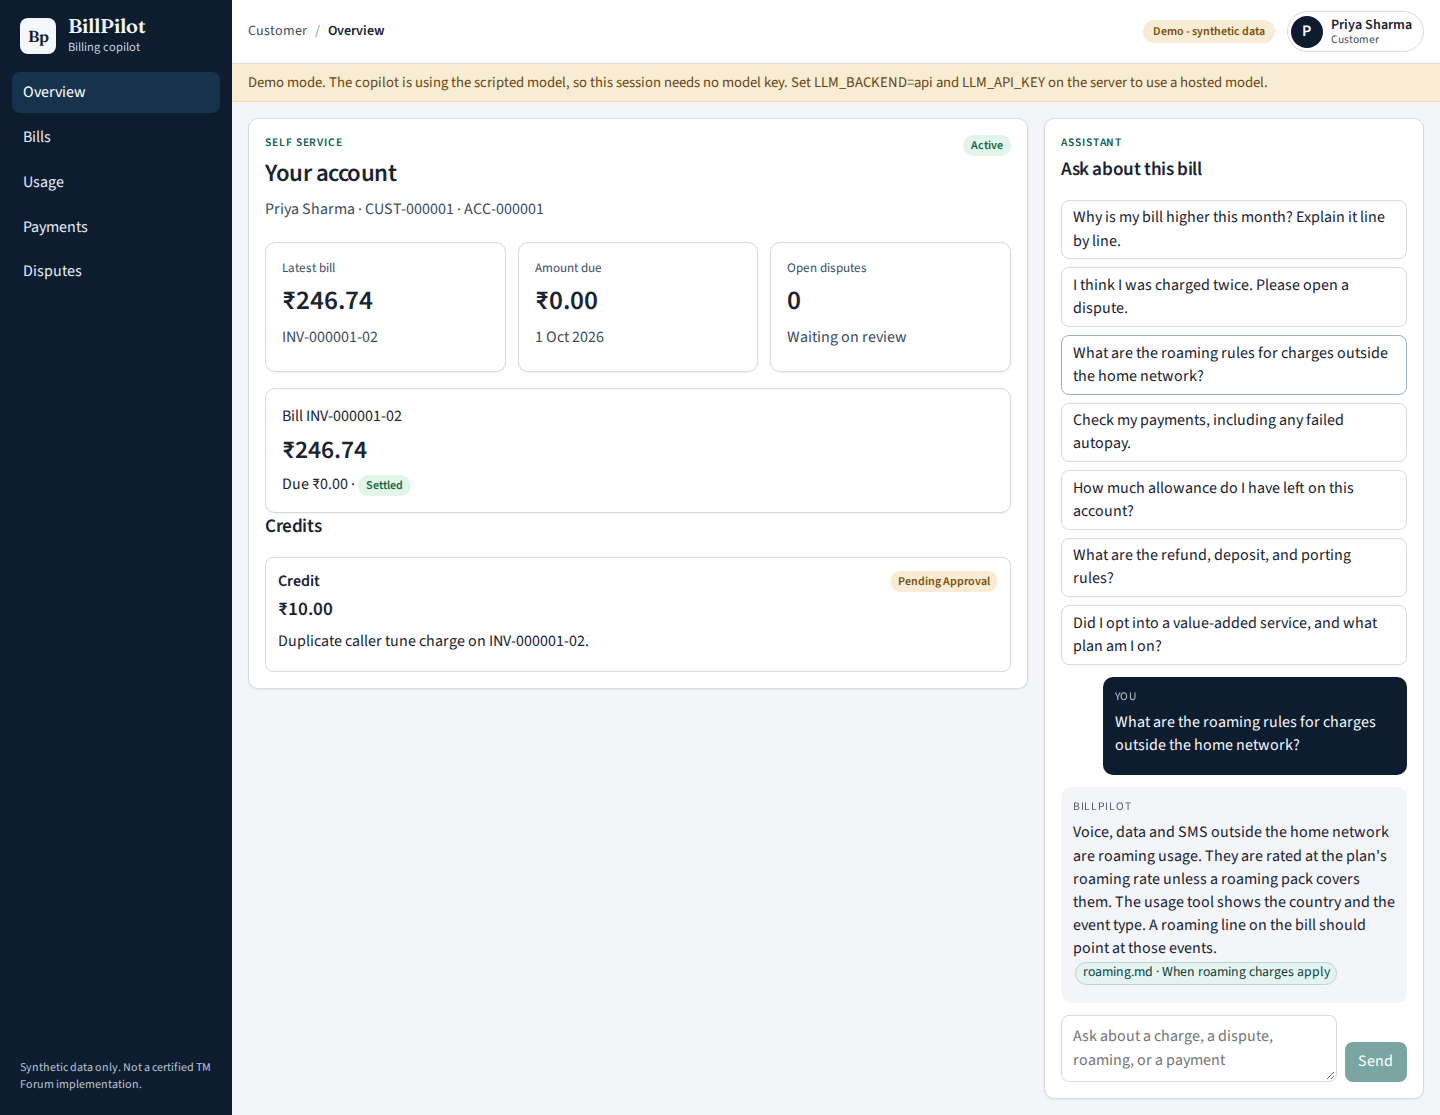
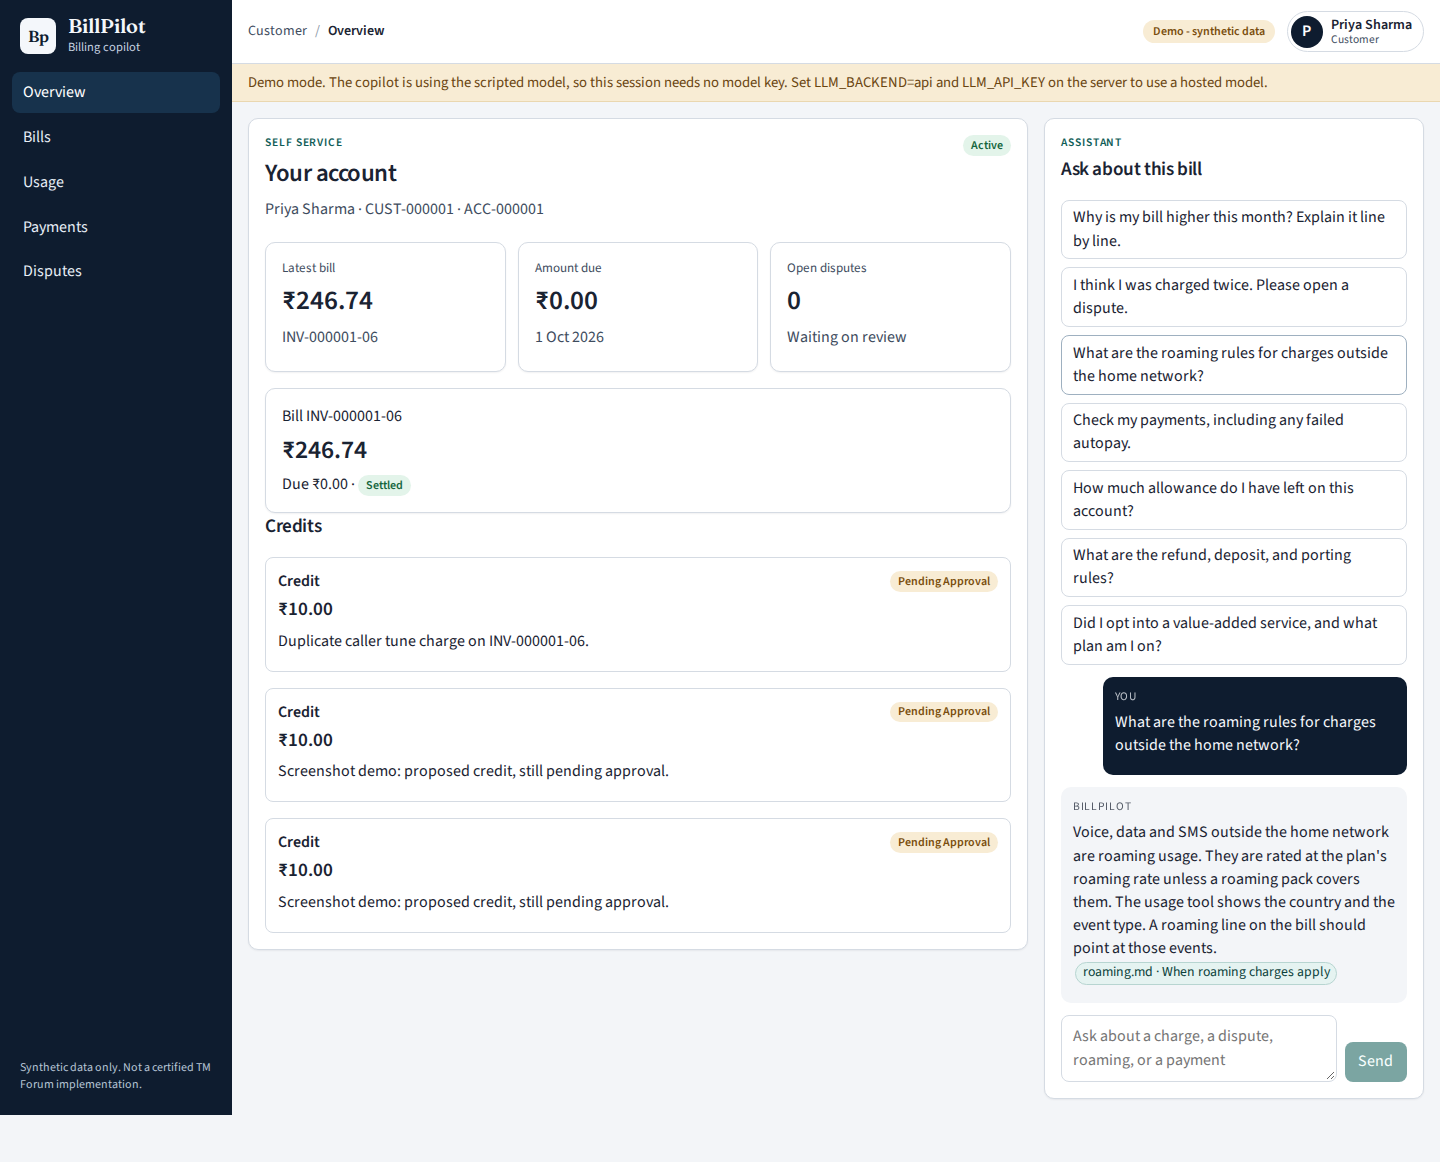
Quote the full-seed detector measurement and refresh the signed-in screenshots.
The 500-customer run is precision 0.9583 and recall 1.0, with four false positives left in the SQL. Ops and CSR shots are from the session shell.

diff --git a/tests/test_events.py b/tests/test_events.py
@@ -179,7 +179,10 @@ def test_session_customer_and_csr_are_forbidden_on_ops_routes(seeded):
                 assert response.status_code == 403, (username, path, response.text)
                 assert "cannot perform" in response.json()["message"]
             client.post("/auth/logout", headers=csrf)
-        meera = client.post("/auth/login", json={"username": "meera.kapoor", "password": _demo_password("meera.kapoor")})
+        meera = client.post(
+            "/auth/login",
+            json={"username": "meera.kapoor", "password": _demo_password("meera.kapoor")},
+        )
         assert meera.status_code == 200, meera.text
         assert client.get("/ops/failures").status_code == 200
 

diff --git a/README.md b/README.md
@@ -359,7 +359,38 @@ The consumer opens incidents for failed bill runs, failed payments and autopay, 
 
 Reports (billing, collections and treatment, disputes and credits, payments, agent usage and cost) are SQL aggregates for the latest invoice day and that month. `billpilot reports generate` or **Generate reports** on `/ops` writes them. CSV is `GET /ops/reports/{id}/csv` and a download button that builds the file from the JSON.
 
-Fraud and revenue checks are SQL. They do not read the answer key. A finding matches a planted anomaly when the account and the anomaly type are the same. Controls are not labels. Precision is matched findings divided by all findings. Recall is matched labels divided by labelled anomalies. On the small synthetic seed (48 customers, seed 42, one of each planted anomaly, plus the healthy controls) the measured precision is **1.0** and the measured recall is **1.0** (23 findings, 23 labelled anomalies, no false positives). Those numbers come from `tests/test_detectors.py` / `billpilot assurance score` against that seed's `ground_truth`. They are a measurement of the SQL checks, not a language-model score. `usage_without_charge` is a real check and finds no row on this generator, so it is not in the labelled set. Ops can open a case or, when the evidence has a positive pre-tax amount, propose a credit. The credit stays `pending_approval`. The ops actor that proposed it cannot approve it.
+Fraud and revenue checks are SQL. They do not read the answer key. A finding matches a planted anomaly when the account and the anomaly type are the same. Controls are not labels. Precision is matched findings divided by all findings. Recall is matched labels divided by labelled anomalies. The detectors and the planted anomalies come from the same synthetic generator, so these numbers show that the detectors match their spec. They are not a measure of real-world accuracy, and they are not a language-model score.
+
+CI runs the small seed only (48 customers, seed 42, one of each planted anomaly, plus the healthy controls): precision **1.0**, recall **1.0**, 23 findings, 23 labelled anomalies. That check is `tests/test_detectors.py`. The default seed is the one to quote: 500 customers, 6 months, seed 42, 92 planted anomalies. `billpilot assurance score --ground-truth data/ground_truth.json` on that database measured precision **0.9583** (92 of 96 findings matched) and recall **1.0** (92 of 92 labelled anomalies). Four findings are false positives. `barred_after_paying` and `payment_not_ending_treatment` each flagged `CUST-000105` and `CUST-000109`, and neither account is a planted example of those anomalies. Nothing planted was missed. The SQL was not changed to drop those four rows. `usage_without_charge` is a real check and finds no row on this generator, so it has no labelled rows and no findings. Scoring the loaded 500-customer database is a separate command. CI does not load that seed.
+
+| Detector | Anomaly type | Labelled | Findings | True positives | False positives | Missed | Precision | Recall |
+| --- | --- | --- | --- | --- | --- | --- | --- | --- |
+| `duplicate_charge` | `double_charge` | 6 | 6 | 6 | 0 | 0 | 1.0 | 1.0 |
+| `roaming_spike` | `roaming_spike` | 4 | 4 | 4 | 0 | 0 | 1.0 | 1.0 |
+| `sim_swap_premium` | `sim_swap` | 3 | 3 | 3 | 0 | 0 | 1.0 | 1.0 |
+| `unbilled_usage` | `unbilled_usage` | 6 | 6 | 6 | 0 | 0 | 1.0 | 1.0 |
+| `usage_without_charge` | `usage_without_charge` | 0 | 0 | 0 | 0 | 0 | — | — |
+| `duplicate_usage` | `duplicate_usage` | 6 | 6 | 6 | 0 | 0 | 1.0 | 1.0 |
+| `tariff_mismatch` | `wrong_rate` | 6 | 6 | 6 | 0 | 0 | 1.0 | 1.0 |
+| `missed_discount` | `missed_discount` | 6 | 6 | 6 | 0 | 0 | 1.0 | 1.0 |
+| `charge_after_cancel` | `charge_after_cancellation` | 4 | 4 | 4 | 0 | 0 | 1.0 | 1.0 |
+| `vas_not_opted_in` | `vas_not_opted_in` | 4 | 4 | 4 | 0 | 0 | 1.0 | 1.0 |
+| `payment_not_recorded` | `payment_not_recorded` | 4 | 4 | 4 | 0 | 0 | 1.0 | 1.0 |
+| `payment_not_posted` | `payment_not_posted` | 4 | 4 | 4 | 0 | 0 | 1.0 | 1.0 |
+| `barred_after_paying` | `barred_after_paying` | 3 | 5 | 3 | 2 | 0 | 0.6 | 1.0 |
+| `treated_during_dispute` | `treated_during_open_dispute` | 3 | 3 | 3 | 0 | 0 | 1.0 | 1.0 |
+| `payment_not_ending_treatment` | `payment_not_ending_treatment` | 3 | 5 | 3 | 2 | 0 | 0.6 | 1.0 |
+| `promise_ignored` | `promise_to_pay_ignored` | 3 | 3 | 3 | 0 | 0 | 1.0 | 1.0 |
+| `exempt_treated` | `exempt_account_treated` | 3 | 3 | 3 | 0 | 0 | 1.0 | 1.0 |
+| `addon_never_activated` | `addon_never_activated` | 4 | 4 | 4 | 0 | 0 | 1.0 | 1.0 |
+| `allowance_not_reset` | `allowance_not_reset` | 4 | 4 | 4 | 0 | 0 | 1.0 | 1.0 |
+| `packs_double_counted` | `overlapping_packs_double_counted` | 3 | 3 | 3 | 0 | 0 | 1.0 | 1.0 |
+| `packs_dropped` | `overlapping_packs_dropped` | 3 | 3 | 3 | 0 | 0 | 1.0 | 1.0 |
+| `promo_ended_early` | `promo_ended_early` | 3 | 3 | 3 | 0 | 0 | 1.0 | 1.0 |
+| `entitlement_without_charge` | `feature_active_after_cancellation` | 3 | 3 | 3 | 0 | 0 | 1.0 | 1.0 |
+| `overage_on_covered` | `overage_on_covered_usage` | 4 | 4 | 4 | 0 | 0 | 1.0 | 1.0 |
+
+Ops can open a case or, when the evidence has a positive pre-tax amount, propose a credit. The credit stays `pending_approval`. The ops actor that proposed it cannot approve it. A session signed in as `meera.kapoor` is actor `user:meera.kapoor`, so that same sign-in cannot approve the credit either.
 
 `POST /agent/troubleshoot` is CSR-only. The CSR pastes an error or a symptom. The agent returns numbered steps with a runbook citation, reads the account with the existing tools, and lists related incidents. The fake model covers this in CI. No hosted-model eval score is claimed for it.
 

diff --git a/docs/decisions/0030-rule-detectors.md b/docs/decisions/0030-rule-detectors.md
@@ -4,7 +4,7 @@
 
 Fraud and revenue checks are SQL over the ledger. They do not read `ground_truth.json`. Each finding stores the detector id, the generator's anomaly type, a severity, and the evidence row. `usage_without_charge` is a real check (quantity above zero, rate and rated amount both zero). The generator does not plant that shape, so a correct run emits no row for it.
 
-`billpilot assurance score` compares findings to the labelled anomalies: a hit is the same account and the same anomaly type. Controls are not labels. Precision is matched findings over all findings. Recall is matched labels over labelled anomalies. Those numbers in the README are that measurement on the synthetic seed. They are not a language-model score.
+`billpilot assurance score` compares findings to the labelled anomalies: a hit is the same account and the same anomaly type. Controls are not labels. Precision is matched findings over all findings. Recall is matched labels over labelled anomalies. The detectors and the planted anomalies come from the same synthetic generator, so the rates show that the SQL matches its spec. They are not real-world accuracy and they are not a language-model score. CI asserts the 48-customer seed (precision 1.0, recall 1.0). The README quotes a separate run of the same command on the default 500-customer seed, including the false positives that run produced. The SQL was not edited to chase a perfect score on that seed.
 
 Ops can open a ticket (`finding.case`) or propose a credit (`finding.propose_adjustment`) from a finding that has a positive pre-tax amount. The credit uses `credit_for_removing` and stays `pending_approval`. The proposer is the ops actor, so the existing rule blocks that same actor from approving it. A second case open does not write a second audit row.
 
